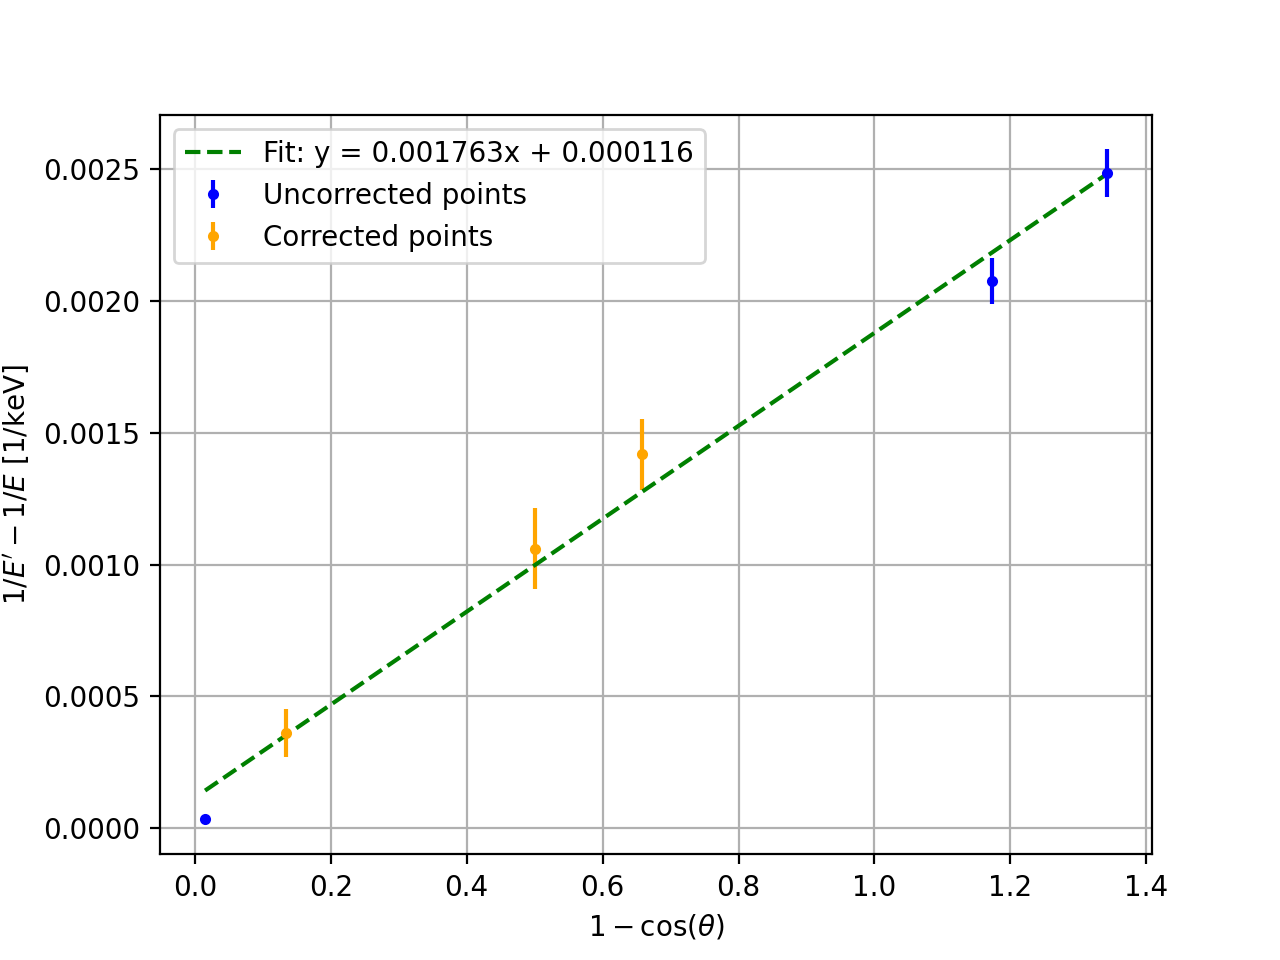
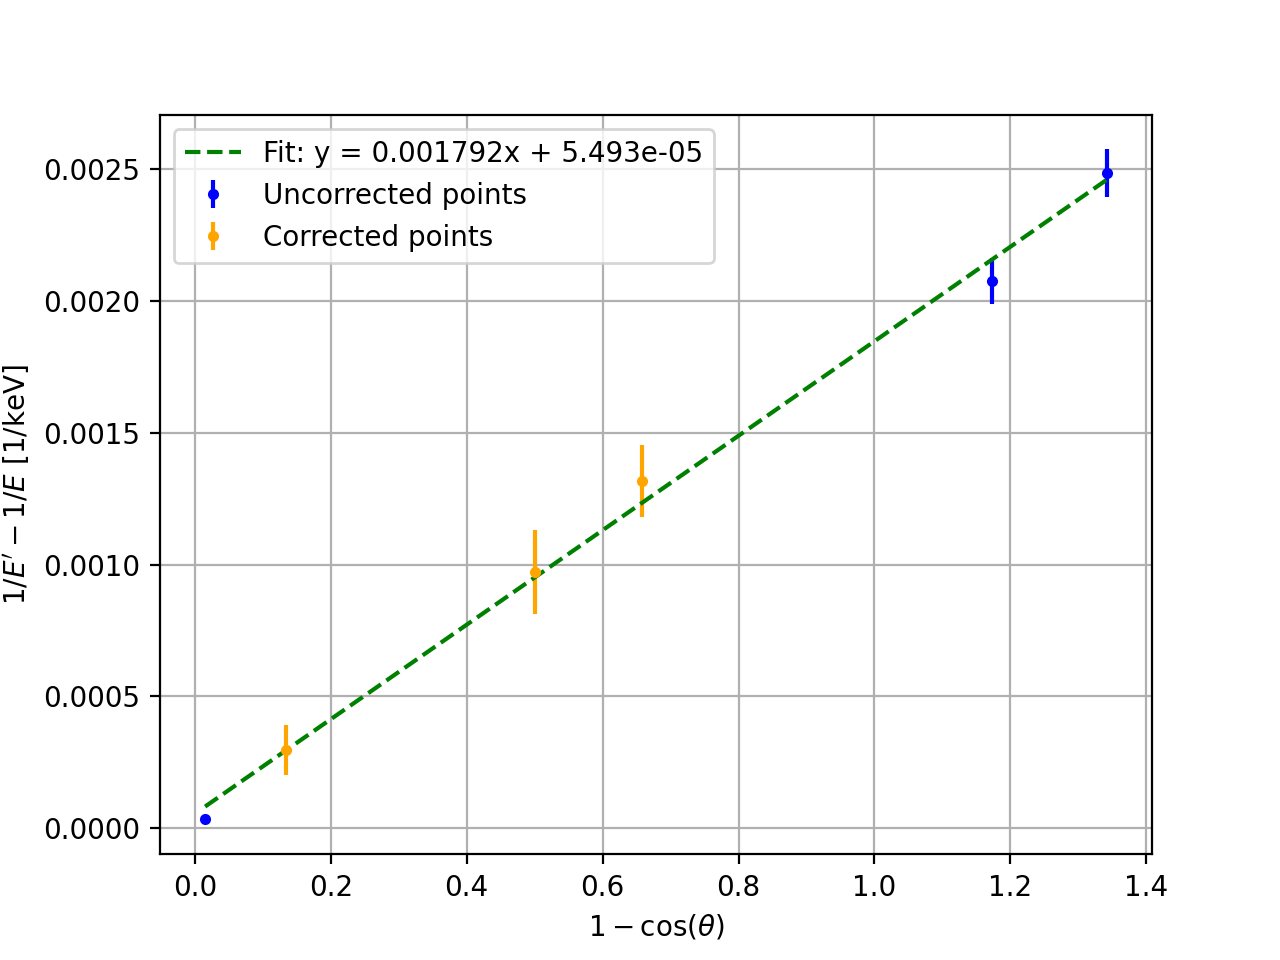
:monocle_face: Scale factor from 1.4 to 1.45

diff --git a/lab1-compton/plot-stuff.py b/lab1-compton/plot-stuff.py
@@ -26,7 +26,7 @@ sketch_data = {30, 60, 70}
 angles = list(data.keys())
 
 def correct_sys_error(eprime):
-    return eprime * 1.4
+    return eprime * 1.45
 
 def degrees_to_radians(degrees):
     return degrees * (np.pi / 180.0)
